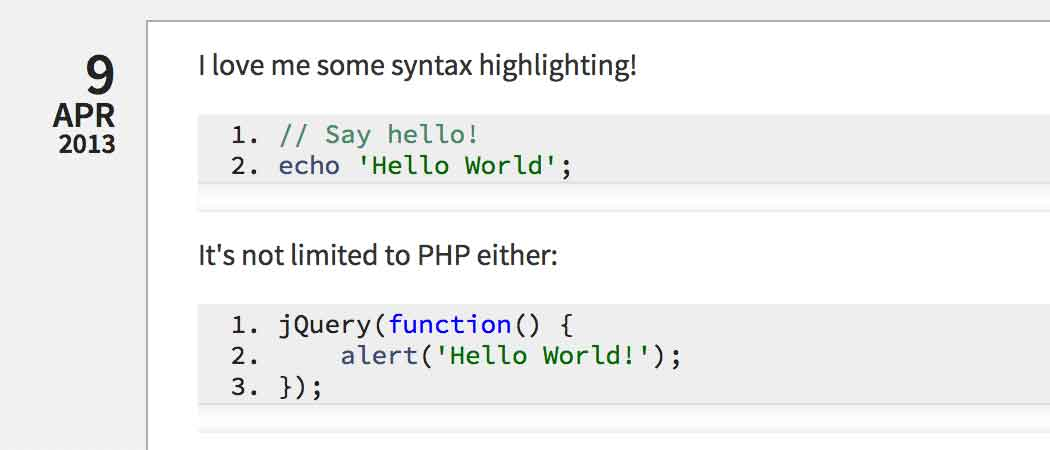
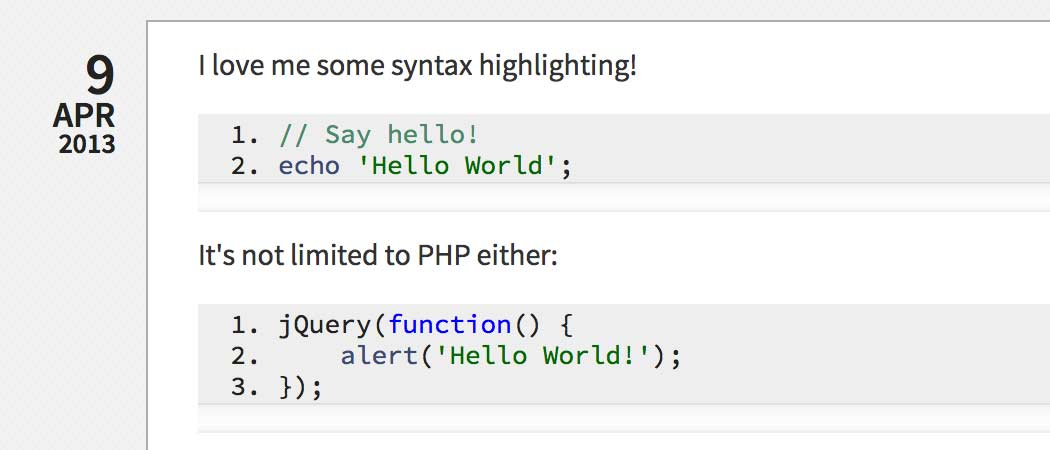
higher-res images for docs, updated readme and meta

diff --git a/style.css b/style.css
@@ -1,8 +1,8 @@
 /*
 Theme Name:   Capsule Client
-Theme URI:    http://crowdfavorite.com/wordpress/themes/capsule/
-Description:  A theme to turn WordPress into a kick-ass development diary.
+Theme URI:    http://crowdfavorite.com/capsule/
+Description:  The developer's code journal.
 Author:       Crowd Favorite
 Author URI:   http://crowdfavorite.com/
-Version:      0.2
+Version:      1.0
 */

diff --git a/README.md b/README.md
@@ -1,21 +1,9 @@
-tasty-beverage
-==============
+# Capsule
 
-## Installation
+_The developer's code journal._
 
-1. Install WordPress
-2. Add tasty-beverage to your `wp-content/themes` directory
-3. Activate the theme
-4. ???
-5. Profit!
+---
 
-*Note if installing from git: be sure to init and update the requisite submodules.*
+This is a WordPress theme. Install it as usual to turn a WordPress instance into a Capsule code journal. [Learn more.](http://crowdfavorite.com/capsule/)
 
-## Usage
-
-1. Use "New" button to add new posts
-2. Add content using Markdown, it'll be formatted accordingly
-3. Use the project (@), tag (#), and code (\`) prefixes (set in `functions.php`) to taxonomize
-4. Click the anchor icon to sticky the post to the top
-5. ???
-6. Profit!
+License: [GPL v2](http://opensource.org/licenses/GPL-2.0)
